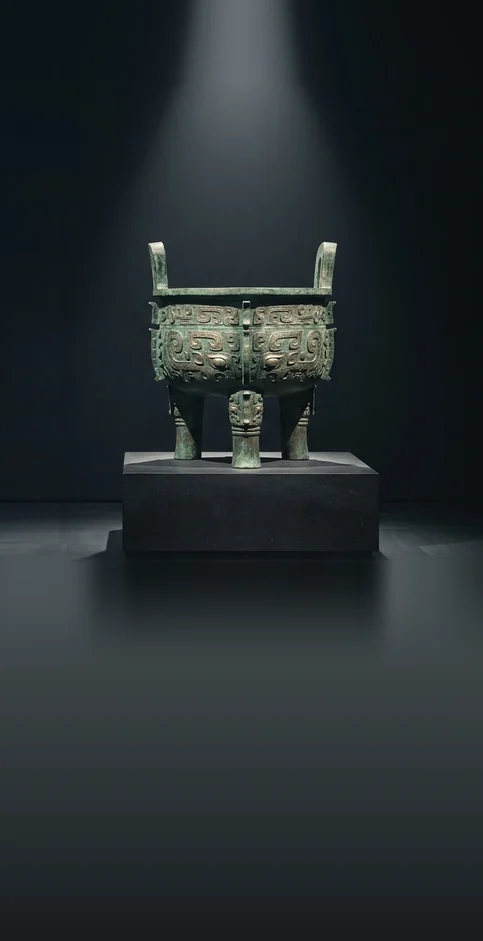
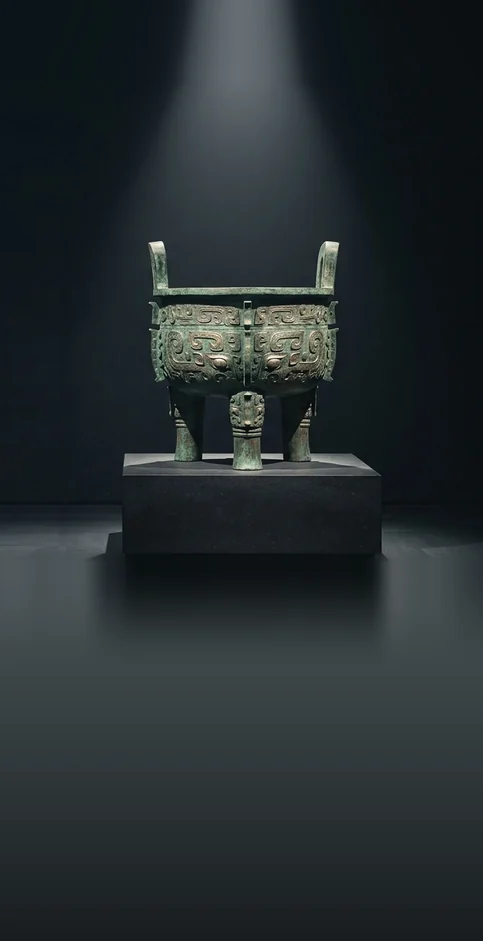
fix(home): pixel-align mobile light and dark ding portraits with v4 cache-busting

diff --git a/frontend/src/stores/theme.ts b/frontend/src/stores/theme.ts
@@ -38,6 +38,36 @@ function resolveOrigin(origin?: ThemeTransitionOrigin): { x: number; y: number }
   return { x: window.innerWidth * 0.85, y: 32 }
 }
 
+function waitForHeroDecode(timeoutMs = 260): Promise<void> {
+  return new Promise((resolve) => {
+    const timer = window.setTimeout(resolve, timeoutMs)
+    const done = () => {
+      window.clearTimeout(timer)
+      resolve()
+    }
+    requestAnimationFrame(() => {
+      const img = document.querySelector<HTMLImageElement>('.corridor-home__hero-media')
+      if (!img) {
+        done()
+        return
+      }
+      const decodeImg = () => {
+        if (typeof img.decode === 'function') {
+          img.decode().catch(() => undefined).finally(done)
+        } else {
+          done()
+        }
+      }
+      if (img.complete) {
+        decodeImg()
+      } else {
+        img.addEventListener('load', decodeImg, { once: true })
+        img.addEventListener('error', done, { once: true })
+      }
+    })
+  })
+}
+
 export function useTheme() {
   const isDark = computed(() => current.value === 'dark')
 
@@ -65,7 +95,10 @@ export function useTheme() {
       document.documentElement.classList.add('is-theme-transitioning')
 
       try {
-        const transition = document.startViewTransition(applyState)
+        const transition = document.startViewTransition(async () => {
+          applyState()
+          await waitForHeroDecode()
+        })
         transition.finished
           .catch(() => undefined)
           .finally(() => {

diff --git a/frontend/src/views/HomeView.vue b/frontend/src/views/HomeView.vue
@@ -131,12 +131,12 @@ const heroMedia = computed(() => isDark.value
   ? {
       src: '/media/editorial/home-hero-dark-v3.webp',
       srcset: '/media/editorial/home-hero-dark-v3-640w.webp 640w, /media/editorial/home-hero-dark-v3-1280w.webp 1280w, /media/editorial/home-hero-dark-v3.webp 1672w',
-      mobileSrcset: '/media/editorial/home-hero-dark-v3-portrait.webp 483w',
+      mobileSrcset: '/media/editorial/home-hero-dark-v4-portrait.webp 483w',
     }
   : {
       src: '/media/editorial/home-hero-light-v3.webp',
       srcset: '/media/editorial/home-hero-light-v3-640w.webp 640w, /media/editorial/home-hero-light-v3-1280w.webp 1280w, /media/editorial/home-hero-light-v3.webp 1672w',
-      mobileSrcset: '/media/editorial/home-hero-light-v3-portrait.webp 483w',
+      mobileSrcset: '/media/editorial/home-hero-light-v4-portrait.webp 483w',
     })
 
 const featureCards = computed(() => locale.value === 'zh-CN'

diff --git a/frontend/src/App.vue b/frontend/src/App.vue
@@ -162,7 +162,7 @@ function warmOppositeThemeHero() {
   const target = isDark.value ? 'light' : 'dark'
   const mobile = window.innerWidth <= 760
   const url = mobile
-    ? `/media/editorial/home-hero-${target}-v3-portrait.webp`
+    ? `/media/editorial/home-hero-${target}-v4-portrait.webp`
     : `/media/editorial/home-hero-${target}-v3-1280w.webp`
   warmImageUrl(url)
 }
@@ -275,6 +275,7 @@ watchEffect(() => {
           :aria-label="isDark ? (locale === 'zh-CN' ? '切换到浅色模式' : 'Switch to light mode') : (locale === 'zh-CN' ? '切换到深色模式' : 'Switch to dark mode')"
           :aria-pressed="isDark"
           @pointerenter="warmOppositeThemeHero"
+          @pointerdown="warmOppositeThemeHero"
           @focus="warmOppositeThemeHero"
           @click="toggleTheme($event)"
         >

diff --git a/frontend/src/assets/darkThemeCohesion.spec.ts b/frontend/src/assets/darkThemeCohesion.spec.ts
@@ -19,7 +19,7 @@ describe('dark theme cohesion contract (Heluo Editorial 2.0 Nocturne Gallery)', 
     expect(existsSync(resolve(process.cwd(), 'public/media/editorial/home-hero-dark-v3.webp'))).toBe(true)
     expect(existsSync(resolve(process.cwd(), 'public/media/editorial/home-hero-dark-v3-1280w.webp'))).toBe(true)
     expect(homeView).toContain("src: '/media/editorial/home-hero-dark-v3.webp'")
-    expect(homeView).toContain('home-hero-dark-v3-portrait.webp 483w')
+    expect(homeView).toContain('home-hero-dark-v4-portrait.webp 483w')
   })
 
   it('defines Cold Obsidian Gallery OKLCH dark surface hierarchy and champagne-gold/patina actions without muddy brown', () => {

diff --git a/frontend/src/test/HomeView.spec.ts b/frontend/src/test/HomeView.spec.ts
@@ -46,7 +46,7 @@ describe('HomeView', () => {
     const heroSource = heroPicture.get('source')
     const heroImage = heroPicture.get('.corridor-home__hero-media')
     expect(heroSource.attributes('media')).toBe('(max-width: 760px)')
-    expect(heroSource.attributes('srcset')).toContain('home-hero-light-v3-portrait.webp 483w')
+    expect(heroSource.attributes('srcset')).toContain('home-hero-light-v4-portrait.webp 483w')
     expect(heroImage.attributes('fetchpriority')).toBe('high')
     expect(wrapper.find('.home-cover__armillary').exists()).toBe(true)
     const closeup3d = wrapper.get('.home-inline-link')

diff --git a/frontend/src/assets/homeHeroMedia.spec.ts b/frontend/src/assets/homeHeroMedia.spec.ts
@@ -67,8 +67,8 @@ describe('home hero high-density media contract', () => {
 
   it('ships portrait mobile candidates and responsive card thumbnails', () => {
     for (const [file, width, height] of [
-      ['home-hero-light-v3-portrait.webp', 483, 941],
-      ['home-hero-dark-v3-portrait.webp', 483, 941],
+      ['home-hero-light-v4-portrait.webp', 483, 941],
+      ['home-hero-dark-v4-portrait.webp', 483, 941],
     ] as const) {
       const dimensions = readLossyWebpDimensions(resolve(mediaDir, file))
       expect(dimensions).toEqual({ width, height })

diff --git a/frontend/index.html b/frontend/index.html
@@ -21,7 +21,7 @@
             hero.rel = 'preload'
             hero.as = 'image'
             hero.setAttribute('fetchpriority', 'high')
-            hero.href = `/media/editorial/home-hero-${theme}-v3-portrait.webp`
+            hero.href = `/media/editorial/home-hero-${theme}-v4-portrait.webp`
             document.head.append(hero)
             // Resolved from Vite's final build; never pull HomeView on deep links.
             for (const [file, type] of /* mobile-home-assets */ []) {
